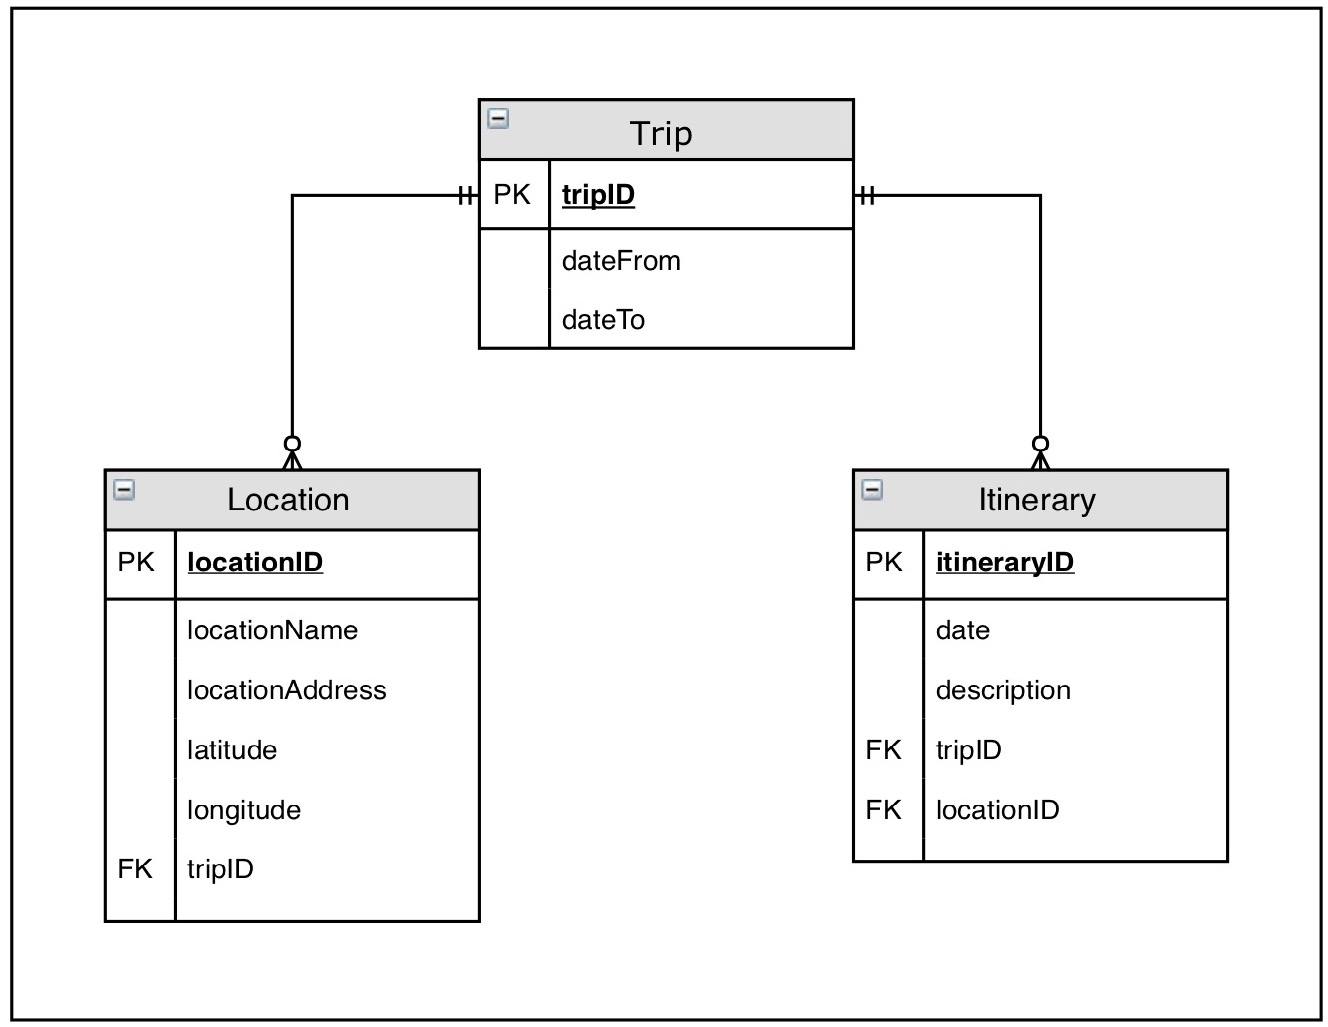
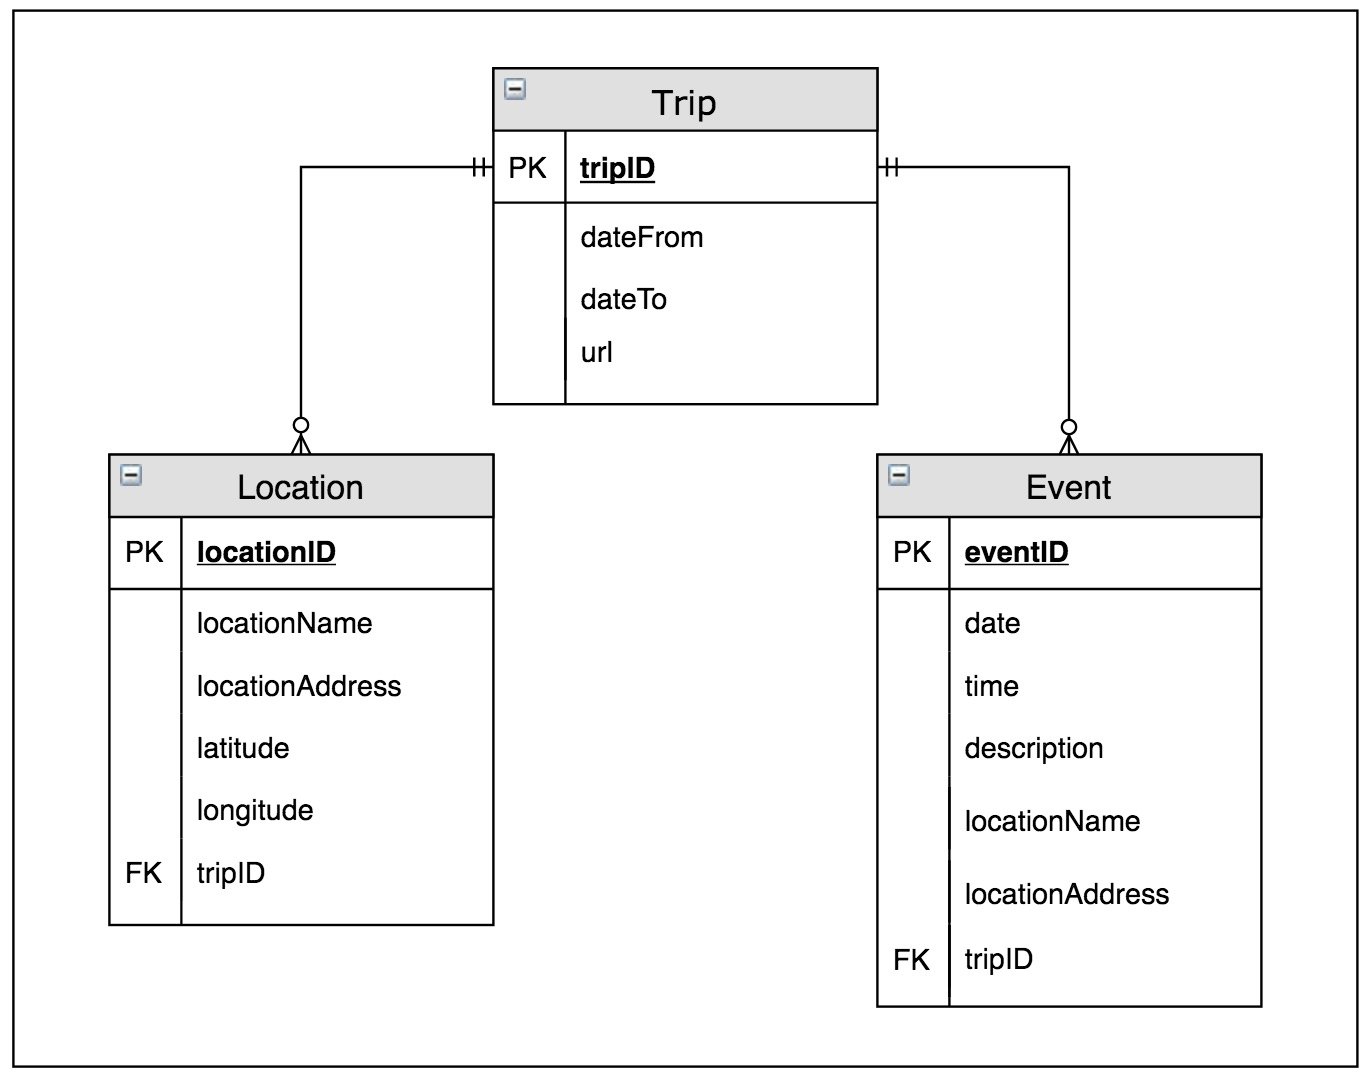
updated ERD

diff --git a/README.md b/README.md
@@ -29,7 +29,7 @@ Live version: https://tripcollab-v2.herokuapp.com/
 
 ## Workflow
 ### Entity-Relationship Diagram
-![p4_erd](https://user-images.githubusercontent.com/31798170/36536154-eac2c782-1806-11e8-9916-06d9efa7065a.png)
+![p4_erd](https://user-images.githubusercontent.com/31798170/36540300-cb5d74a6-1814-11e8-92b7-dd616885589a.png)
 
 ---
 
@@ -51,6 +51,7 @@ Live version: https://tripcollab-v2.herokuapp.com/
 ### Wireframe
 ![p4_wireframe](https://user-images.githubusercontent.com/31798170/36517183-58883ca2-17bc-11e8-90c0-e9d5028f26f0.png)
 
+![wireframe](https://user-images.githubusercontent.com/31798170/36540329-e53e5174-1814-11e8-8fa0-f153f6e1f86f.png)
 ---
 
 # Scalable Areas
